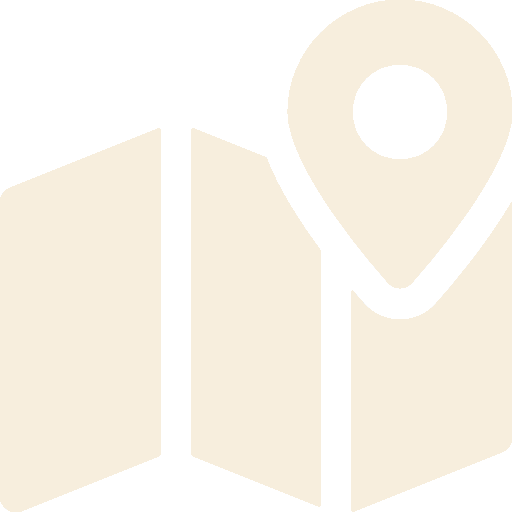
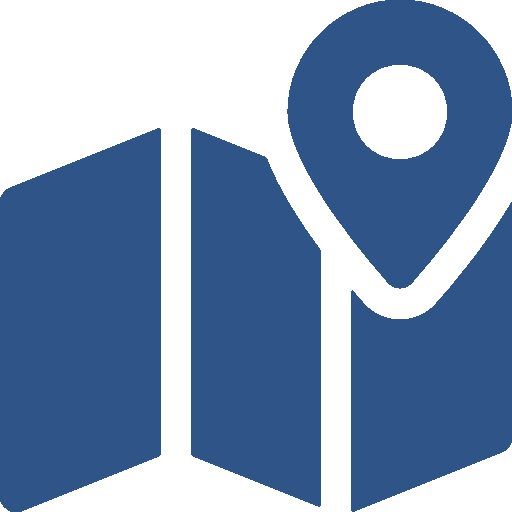
Changing design of mainwindow and adding customer

diff --git a/MapDBTrack/AddingCustomer.xaml b/MapDBTrack/AddingCustomer.xaml
@@ -5,31 +5,35 @@
         xmlns:mc="http://schemas.openxmlformats.org/markup-compatibility/2006"
         xmlns:local="clr-namespace:MapDBTrack"
         mc:Ignorable="d"
-        Title="AddingCustomer" Height="750" Width="700">
+        Title="AddingCustomer" Height="880" Width="700">
     <Window.Resources>
         <Style x:Key="TextBlocksStyle" TargetType="TextBlock">
-            <Setter Property="FontSize" Value="25"/>
+            <Setter Property="FontSize" Value="15"/>
             <Setter Property="FontWeight" Value="DemiBold"/>
             <Setter Property="VerticalAlignment" Value="Center"/>
             <Setter Property="HorizontalAlignment" Value="Center"/>
-            <Setter Property="Foreground" Value="#F7EEDD"/>
+            <Setter Property="Foreground" Value="#FF2F5588"/>
         </Style>
         <Style x:Key="Buttons" TargetType="Button">
-            <Setter Property="Background" Value="#FF5B5B5B"/>
+            <Setter Property="Background" Value="#FF2F5588"/>
+            <Setter Property="BorderThickness" Value="2"/>
+            <Setter Property="FontSize" Value="20"/>
             <Setter Property="FontWeight" Value="DemiBold"/>
-            <Setter Property="FontSize" Value="30"/>
-            <Setter Property="Cursor" Value="Hand"/>
-            <Setter Property="Foreground" Value="#F7EEDD"/>
+            <Setter Property="Foreground" Value="White"/>
+            <Setter Property="BorderBrush" Value="Gray"/>
             <Setter Property="Template">
                 <Setter.Value>
                     <ControlTemplate TargetType="Button">
+
                         <Border Background="{TemplateBinding Background}"
-                        CornerRadius="20">
+                        BorderBrush="{TemplateBinding BorderBrush}"
+                        BorderThickness="{TemplateBinding BorderThickness}"
+                        CornerRadius="15">
                             <ContentPresenter HorizontalAlignment="Center" VerticalAlignment="Center"/>
                         </Border>
                         <ControlTemplate.Triggers>
                             <Trigger Property="IsMouseOver" Value="True">
-                                <Setter Property="Background" Value="#FF888888"/>
+                                <Setter Property="Background" Value="#FF638EC8"/>
                             </Trigger>
                         </ControlTemplate.Triggers>
                     </ControlTemplate>
@@ -84,67 +88,108 @@
         </Style>
     </Window.Resources>
     <Grid>
-        <Grid.RowDefinitions>
-            <RowDefinition Height="*"/>
-            <RowDefinition Height="*"/>
-            <RowDefinition Height="*"/>
-            <RowDefinition Height="*"/>
-            <RowDefinition Height="*"/>
-            <RowDefinition Height="*"/>
-            <RowDefinition Height="*"/>
-            <RowDefinition Height="*"/>
-            <RowDefinition Height="*"/>
-            <RowDefinition Height="*"/>
-            <RowDefinition Height="*"/>
-            <RowDefinition Height="*"/>
-            <RowDefinition Height="80"/>
-        </Grid.RowDefinitions>
-        <Grid.ColumnDefinitions>
-            <ColumnDefinition Width="200"/>
-            <ColumnDefinition Width="*"/>
-        </Grid.ColumnDefinitions>
-
-        <Image Source="/Pictures/MainWindowBack.jpg" Stretch="UniformToFill" Grid.RowSpan="20" Grid.ColumnSpan="2"/>
-        <TextBlock Grid.Row="0" Grid.Column="0" Text="First name" Style="{StaticResource ResourceKey=TextBlocksStyle}"/>
-        <TextBlock Grid.Row="1" Grid.Column="0" Text="Last name" Style="{StaticResource ResourceKey=TextBlocksStyle}"/>
-        <TextBlock Grid.Row="2" Grid.Column="0" Text="Number" Style="{StaticResource ResourceKey=TextBlocksStyle}"/>
-        <TextBlock Grid.Row="3" Grid.Column="0" Text="Email" Style="{StaticResource ResourceKey=TextBlocksStyle}"/>
-        <TextBlock Grid.Row="4" Grid.Column="0" Text="Province" Style="{StaticResource ResourceKey=TextBlocksStyle}"/>
-        <TextBlock Grid.Row="5" Grid.Column="0" Text="City" Style="{StaticResource ResourceKey=TextBlocksStyle}"/>
-        <TextBlock Grid.Row="6" Grid.Column="0" Text="Postal code" Style="{StaticResource ResourceKey=TextBlocksStyle}"/>
-        <TextBlock Grid.Row="7" Grid.Column="0" Text="Street" Style="{StaticResource ResourceKey=TextBlocksStyle}"/>
-        <TextBlock Grid.Row="8" Grid.Column="0" Text="Latitude" Style="{StaticResource ResourceKey=TextBlocksStyle}"/>
-        <TextBlock Grid.Row="9" Grid.Column="0" Text="Longitude" Style="{StaticResource ResourceKey=TextBlocksStyle}"/>
-        <TextBlock Grid.Row="10" Grid.RowSpan="2" Grid.Column="0" Text="Description" Style="{StaticResource ResourceKey=TextBlocksStyle}"/>
-
-        <TextBox x:Name="FirstNameBox" Grid.Row="0" Grid.Column="1" Margin="27,11,29,11" Style="{StaticResource RoundedTextBox}" />
-        <TextBox x:Name="LastNameBox" Grid.Row="1" Grid.Column="1" Margin="27,11,29,11" Style="{StaticResource RoundedTextBox}" />
-        <TextBox x:Name="ContactBox" Grid.Row="2" Grid.Column="1" Margin="27,11,29,11" Style="{StaticResource RoundedTextBox}"/>
-        <TextBox x:Name="EmailBox" Grid.Row="3" Grid.Column="1" Margin="27,11,29,11" Style="{StaticResource RoundedTextBox}" />
-        <TextBox x:Name="ProvinceBox" Grid.Row="4" Grid.Column="1" Margin="27,11,29,11" Style="{StaticResource RoundedTextBox}" />
-        <TextBox x:Name="CityBox" Grid.Row="5" Grid.Column="1" Margin="27,11,29,11" Style="{StaticResource RoundedTextBox}"/>
-        <TextBox x:Name="PostalCodeBox" Grid.Row="6" Grid.Column="1" Margin="27,11,29,11" Style="{StaticResource RoundedTextBox}"/>
-        <TextBox x:Name="StreetBox" Grid.Row="7" Grid.Column="1" Margin="27,11,29,11" Style="{StaticResource RoundedTextBox}" />
-        <TextBox x:Name="LatitudeBox" Grid.Row="8" Grid.Column="1" Margin="27,11,29,11" IsEnabled="False" Style="{StaticResource RoundedTextBox}"/>
-        <TextBox x:Name="LongitudeBox" Grid.Row="9" Grid.Column="1" Margin="27,11,29,11" IsEnabled="False" Style="{StaticResource RoundedTextBox}"/>
-        <TextBox x:Name="DescriptionBox" Grid.Row="10" Grid.Column="1" Margin="27,11,29,11" Grid.RowSpan="2" Style="{StaticResource RoundedTextBoxDesc}" />
-
-        <Border Grid.Row="12" Grid.Column="0" Grid.ColumnSpan="2">
+        <Border Background="#FFD1E1EC">
             <Grid>
-                <Grid.ColumnDefinitions>
-                    <ColumnDefinition Width="*"/>
-                    <ColumnDefinition Width="*"/>
-                </Grid.ColumnDefinitions>
-                <Border Grid.Row="0" Grid.Column="0" CornerRadius="20" Margin="10" Background="#FF5B5B5B" BorderThickness="2" BorderBrush="Black">
-                    <Button Content="Accept" Style="{StaticResource Buttons}" Click="AcceptClick"/>
-                </Border>
-                <Border Grid.Row="0" Grid.Column="1" CornerRadius="20" Margin="10" Background="#FF5B5B5B" BorderThickness="2" BorderBrush="Black">
-                    <Button Content="Delete" Style="{StaticResource Buttons}" Click="DeleteClick"/>
+                <Grid.RowDefinitions>
+                    <RowDefinition Height="*"/>
+                    <RowDefinition Height="*"/>
+                    <RowDefinition Height="*"/>
+                    <RowDefinition Height="3"/>
+                    <RowDefinition Height="*"/>
+                    <RowDefinition Height="*"/>
+                    <RowDefinition Height="*"/>
+                    <RowDefinition Height="*"/>
+                    <RowDefinition Height="3"/>
+                    <RowDefinition Height="*"/>
+                    <RowDefinition Height="*"/>
+                    <RowDefinition Height="*"/>
+                    <RowDefinition Height="*"/>
+                </Grid.RowDefinitions>
+                <TextBlock Grid.Row="0" Grid.Column="0" Grid.ColumnSpan="2" Text="Contact information" FontSize="50" Foreground="#FF2F5588" FontWeight="DemiBold" VerticalAlignment="Center" HorizontalAlignment="Center"/>
+
+
+                <Border Grid.Row="1" Grid.RowSpan="2">
+                    <Grid>
+                        <Grid.ColumnDefinitions>
+                            <ColumnDefinition Width="*"/>
+                            <ColumnDefinition Width="*"/>
+                        </Grid.ColumnDefinitions>
+                        <Grid.RowDefinitions>
+                            <RowDefinition Height="*"/>
+                            <RowDefinition Height="*"/>
+                        </Grid.RowDefinitions>
+                        <TextBox x:Name="FirstNameBox" Grid.Row="0" Grid.Column="0" Margin="10,26,10,5"  Style="{StaticResource RoundedTextBox}" />
+                        <TextBox x:Name="LastNameBox" Grid.Row="0" Grid.Column="1"  Style="{StaticResource RoundedTextBox}" Margin="10,26,10,5" />
+
+                        <TextBlock Grid.Row="0" Grid.Column="0" Text="First name" Style="{StaticResource ResourceKey=TextBlocksStyle}" HorizontalAlignment="Left" Margin="12,5,0,0" VerticalAlignment="Top" Height="16"/>
+                        <TextBlock Grid.Row="0" Grid.Column="1" Text="Last name" Style="{StaticResource ResourceKey=TextBlocksStyle}" HorizontalAlignment="Left" Margin="12,5,0,0" VerticalAlignment="Top" Height="18"/>
+
+                        <TextBox x:Name="ContactBox" Grid.Row="1" Grid.Column="1" Margin="10,26,10,5" Style="{StaticResource RoundedTextBox}"/>
+                        <TextBox x:Name="EmailBox" Grid.Row="1" Grid.Column="0" Margin="10,26,10,5" Style="{StaticResource RoundedTextBox}" />
+
+                        <TextBlock Grid.Row="1" Grid.Column="1" Text="Number" Style="{StaticResource ResourceKey=TextBlocksStyle}" HorizontalAlignment="Left"  VerticalAlignment="Top" Margin="12,5,0,0"/>
+                        <TextBlock Grid.Row="1" Text="Email" Style="{StaticResource ResourceKey=TextBlocksStyle}" HorizontalAlignment="Left"  VerticalAlignment="Top" Margin="12,5,0,0"/>
+                    </Grid>
                 </Border>
 
+                <Border Grid.Row="4" Background="#FF2F5588" Margin="0,4,0,71"/>
+
+                <TextBlock Grid.Row="4" Grid.Column="0" Grid.ColumnSpan="2" Text="Residence details" FontSize="50" Foreground="#FF2F5588" FontWeight="DemiBold" VerticalAlignment="Center" HorizontalAlignment="Center"/>
+
+                <Border Grid.Row="5" Grid.RowSpan="3">
+                    <Grid>
+                        <Grid.ColumnDefinitions>
+                            <ColumnDefinition Width="*"/>
+                            <ColumnDefinition Width="*"/>
+                        </Grid.ColumnDefinitions>
+                        <Grid.RowDefinitions>
+                            <RowDefinition Height="*"/>
+                            <RowDefinition Height="*"/>
+                            <RowDefinition Height="*"/>
+                        </Grid.RowDefinitions>
+                        <TextBlock Grid.Row="0" Text="Province" Style="{StaticResource ResourceKey=TextBlocksStyle}" HorizontalAlignment="Left" Margin="12,5,0,0" VerticalAlignment="Top"/>
+                        <TextBlock Grid.Row="0" Grid.Column="1" Text="City" Style="{StaticResource ResourceKey=TextBlocksStyle}" HorizontalAlignment="Left" Margin="12,5,0,0" VerticalAlignment="Top"/>
+
+                        <TextBox x:Name="ProvinceBox" Grid.Row="0" Grid.Column="0" Margin="10,26,10,5" Style="{StaticResource RoundedTextBox}" />
+                        <TextBox x:Name="CityBox" Grid.Row="0" Grid.Column="1" Margin="10,26,10,5" Style="{StaticResource RoundedTextBox}"/>
+
+                        <TextBox x:Name="PostalCodeBox" Grid.Row="1" Grid.Column="0" Margin="10,26,10,5" Style="{StaticResource RoundedTextBox}"/>
+                        <TextBox x:Name="StreetBox" Grid.Row="1" Grid.Column="1" Margin="10,26,10,5" Style="{StaticResource RoundedTextBox}" />
+
+                        <TextBlock Grid.Row="1" Grid.Column="0" Text="Postal code" Style="{StaticResource ResourceKey=TextBlocksStyle}" HorizontalAlignment="Left" Margin="18,2,0,0" VerticalAlignment="Top"/>
+                        <TextBlock Grid.Row="1" Grid.Column="1" Text="Street" Style="{StaticResource ResourceKey=TextBlocksStyle}" HorizontalAlignment="Left" Margin="12,5,0,0" VerticalAlignment="Top"/>
+
+                        <TextBlock Grid.Row="2" Grid.Column="0" Text="Latitude" Style="{StaticResource ResourceKey=TextBlocksStyle}" HorizontalAlignment="Left" Margin="12,5,0,0" VerticalAlignment="Top"/>
+                        <TextBlock Grid.Row="2" Grid.Column="1" Text="Longitude" Style="{StaticResource ResourceKey=TextBlocksStyle}" HorizontalAlignment="Left" Margin="12,5,0,0" VerticalAlignment="Top"/>
+
+                        <TextBox x:Name="LatitudeBox" Grid.Row="2" Grid.Column="0" Margin="10,26,10,5" IsEnabled="False" Style="{StaticResource RoundedTextBox}"/>
+                        <TextBox x:Name="LongitudeBox" Grid.Row="2" Grid.Column="1" Margin="10,26,10,5" IsEnabled="False" Style="{StaticResource RoundedTextBox}"/>
+                    </Grid>
+                </Border>
+
+                <Border Grid.Row="9" Background="#FF2F5588" Margin="0,2,0,73"/>
+
+                <TextBlock Grid.Row="9" Grid.Column="0" Grid.ColumnSpan="2" Text="Description" FontSize="50" Foreground="#FF2F5588" FontWeight="DemiBold" VerticalAlignment="Center" HorizontalAlignment="Center"/>
+
+                <TextBox x:Name="DescriptionBox" Grid.Row="10" Grid.RowSpan="2" Style="{StaticResource RoundedTextBoxDesc}" Margin="10,12,10,17"/>
+
+
+                <Border Grid.Row="12" Grid.Column="0" Grid.ColumnSpan="2">
+                    <Grid>
+                        <Grid.ColumnDefinitions>
+                            <ColumnDefinition Width="*"/>
+                            <ColumnDefinition Width="*"/>
+                        </Grid.ColumnDefinitions>
+                        <Border Grid.Row="0" Grid.Column="0" CornerRadius="20" Margin="10">
+                            <Button Content="Accept" Style="{StaticResource Buttons}" Click="AcceptClick"/>
+                        </Border>
+                        <Border Grid.Row="0" Grid.Column="1" CornerRadius="20" Margin="10">
+                            <Button Content="Delete" Style="{StaticResource Buttons}" Click="DeleteClick"/>
+                        </Border>
+
+                    </Grid>
+                </Border>
             </Grid>
         </Border>
-
-
     </Grid>
 </Window>

diff --git a/MapDBTrack/MainWindow.xaml b/MapDBTrack/MainWindow.xaml
@@ -11,19 +11,24 @@
 
     <Window.Resources>
         <Style x:Key="Buttons" TargetType="Button">
-            <Setter Property="Background" Value="#FF5B5B5B"/>
+            <Setter Property="Background" Value="#FF2F5588"/>
             <Setter Property="FontWeight" Value="DemiBold"/>
+            <Setter Property="BorderThickness" Value="2"/>
             <Setter Property="Cursor" Value="Hand"/>
+            <Setter Property="BorderBrush" Value="Gray"/>
             <Setter Property="Template">
                 <Setter.Value>
                     <ControlTemplate TargetType="Button">
+
                         <Border Background="{TemplateBinding Background}"
-                        CornerRadius="20">
+                        BorderBrush="{TemplateBinding BorderBrush}"
+                        BorderThickness="{TemplateBinding BorderThickness}"
+                        CornerRadius="15">
                             <ContentPresenter HorizontalAlignment="Center" VerticalAlignment="Center"/>
                         </Border>
                         <ControlTemplate.Triggers>
                             <Trigger Property="IsMouseOver" Value="True">
-                                <Setter Property="Background" Value="#FF888888"/>
+                                <Setter Property="Background" Value="#FF638EC8"/>
                             </Trigger>
                         </ControlTemplate.Triggers>
                     </ControlTemplate>
@@ -72,8 +77,7 @@
             <ColumnDefinition Width="2"/>
             <ColumnDefinition Width="898"/>
         </Grid.ColumnDefinitions>
-        <Image Source="/Pictures/MainWindowBack.jpg" Stretch="None"/>
-        <Border x:Name="Menu" Grid.Column="0">
+        <Border x:Name="Menu" Grid.Column="0" Background="#FFD1E1EC">
             <Grid>
                 <Grid.ColumnDefinitions>
                     <ColumnDefinition Width="100"/>
@@ -96,7 +100,7 @@
 
                 <Border Grid.Row="0" Grid.Column="0" Grid.ColumnSpan="2">
                     <Grid>
-                        <TextBlock Text="MapDBTrack" FontSize="40" FontWeight="Bold" Foreground="#F7EEDD" HorizontalAlignment="Center" VerticalAlignment="Top" Margin="0,3,0,0"/>
+                        <TextBlock Text="MapDBTrack" FontSize="40" FontWeight="Bold" Foreground="#FF2F5588" HorizontalAlignment="Center" VerticalAlignment="Top" Margin="0,3,0,0"/>
                         <Button Opacity="0" Click="Information" Width="235" Cursor="Hand" Margin="34,15,31,60"/>
                     </Grid>
                 </Border>
@@ -104,7 +108,7 @@
 
 
 
-                <Border Grid.Row="2" Grid.Column="0" Grid.ColumnSpan="2" CornerRadius="20" Margin="20" Background="#FF5B5B5B" BorderThickness="2" BorderBrush="Black">
+                <Border Grid.Row="2" Grid.Column="0" Grid.ColumnSpan="2" CornerRadius="20" Margin="20">
                     <Grid>
                         <Grid.ColumnDefinitions>
                             <ColumnDefinition Width="80"/>
@@ -112,11 +116,11 @@
                         </Grid.ColumnDefinitions>
                         <Button Grid.Column="0" Grid.ColumnSpan="2" Style="{StaticResource Buttons}" Click="MapClick"/>
                         <TextBlock Text="Map" Grid.Column="1" Style="{StaticResource TexBlocks}" IsHitTestVisible="False"/>
-                        <Image Source="/Pictures/Pin.png" Grid.Column="0" IsHitTestVisible="False" HorizontalAlignment="Stretch" VerticalAlignment="Stretch" Margin="0,5,0,5"/>
+                        <Image Source="/Pictures/Pin.png" Grid.Column="0" IsHitTestVisible="False" Margin="3,6,1,6"/>
                     </Grid>
                 </Border>
 
-                <Border Grid.Row="3" Grid.Column="0" Grid.ColumnSpan="2" CornerRadius="20" Margin="20" Background="#FF5B5B5B" BorderThickness="2" BorderBrush="Black">
+                <Border Grid.Row="3" Grid.Column="0" Grid.ColumnSpan="2" CornerRadius="20" Margin="20">
                     <Grid>
                         <Grid.ColumnDefinitions>
                             <ColumnDefinition Width="80"/>
@@ -124,11 +128,11 @@
                         </Grid.ColumnDefinitions>
                         <Button Grid.Column="0" Grid.ColumnSpan="2" Style="{StaticResource Buttons}" Click="CustomersClick"/>
                         <TextBlock Text="Customers" Grid.Column="1" Style="{StaticResource TexBlocks}" IsHitTestVisible="False"/>
-                        <Image Source="/Pictures/Customer.png" Grid.Column="0" IsHitTestVisible="False"  HorizontalAlignment="Stretch" VerticalAlignment="Stretch" Margin="0,5,0,5"/>
+                        <Image Source="/Pictures/Customer.png" Grid.Column="0" IsHitTestVisible="False" Margin="3,6,1,6"/>
                     </Grid>
                 </Border>
 
-                <Border Grid.Row="4" Grid.Column="0" Grid.ColumnSpan="2" CornerRadius="20" Margin="20" Background="#FF5B5B5B" BorderThickness="2" BorderBrush="Black">
+                <Border Grid.Row="4" Grid.Column="0" Grid.ColumnSpan="2" CornerRadius="20" Margin="20" >
                     <Grid>
                         <Grid.ColumnDefinitions>
                             <ColumnDefinition Width="80"/>
@@ -136,11 +140,11 @@
                         </Grid.ColumnDefinitions>
                         <Button Grid.Column="0" Grid.ColumnSpan="2" Style="{StaticResource Buttons}" Click="HistoryClick"/>
                         <TextBlock Text="History" Grid.Column="1" Style="{StaticResource TexBlocks}" IsHitTestVisible="False"/>
-                        <Image Source="/Pictures/History.png" Grid.Column="0" IsHitTestVisible="False"  HorizontalAlignment="Stretch" VerticalAlignment="Stretch" Margin="0,5,0,5"/>
+                        <Image Source="/Pictures/History.png" Grid.Column="0" IsHitTestVisible="False" Margin="0,5,0,5"/>
                     </Grid>
                 </Border>
 
-                <Border Grid.Row="5" Grid.Column="0" Grid.ColumnSpan="2" CornerRadius="20" Margin="20" Background="#FF5B5B5B" BorderThickness="2" BorderBrush="Black">
+                <Border Grid.Row="5" Grid.Column="0" Grid.ColumnSpan="2" CornerRadius="20" Margin="20">
                     <Grid>
                         <Grid.ColumnDefinitions>
                             <ColumnDefinition Width="80"/>
@@ -148,11 +152,11 @@
                         </Grid.ColumnDefinitions>
                         <Button Grid.Column="0" Grid.ColumnSpan="2" Style="{StaticResource Buttons}" Click="LogoutClick"/>
                         <TextBlock Text="Log out" Grid.Column="1" Style="{StaticResource TexBlocks}" IsHitTestVisible="False"/>
-                        <Image Source="/Pictures/Logout.png" Grid.Column="0" IsHitTestVisible="False" Margin="6,9,6,9"/>
+                        <Image Source="/Pictures/Logout.png" Grid.Column="0" IsHitTestVisible="False" Margin="8,9,4,9"/>
                     </Grid>
                 </Border>
 
-                <Border Grid.Row="6" Grid.Column="0" Grid.ColumnSpan="2" CornerRadius="20" Margin="20" Background="#FF5B5B5B" BorderThickness="2" BorderBrush="Black">
+                <Border Grid.Row="6" Grid.Column="0" Grid.ColumnSpan="2" CornerRadius="20" Margin="20">
                     <Grid>
                         <Grid.ColumnDefinitions>
                             <ColumnDefinition Width="80"/>
@@ -160,13 +164,13 @@
                         </Grid.ColumnDefinitions>
                         <Button Grid.Column="0" Grid.ColumnSpan="2" Style="{StaticResource Buttons}" Click="ExitClick"/>
                         <TextBlock Text="Exit" Grid.Column="1" Style="{StaticResource TexBlocks}" IsHitTestVisible="False"/>
-                        <Image Source="/Pictures/Exit.png" Grid.Column="0" IsHitTestVisible="False"  HorizontalAlignment="Stretch" VerticalAlignment="Stretch" Margin="0,5,0,5"/>
+                        <Image Source="/Pictures/Exit.png" Grid.Column="0" IsHitTestVisible="False" Margin="1,-2,2,1"/>
                     </Grid>
                 </Border>
 
             </Grid>
         </Border>
-        <TextBlock x:Name="LoginName" Text="" Foreground="#F7EEDD" FontWeight="DemiBold" VerticalAlignment="Top" TextAlignment="Left" FontSize="22" Height="41" Margin="21,200,0,0"/>
+        <TextBlock x:Name="LoginName" Text="" Foreground="#FF2F5588" FontWeight="DemiBold" VerticalAlignment="Top" TextAlignment="Left" FontSize="22" Height="41" Margin="21,200,0,0"/>
         <Image Source="/Pictures/Map.png" Grid.Row="0" Margin="36,66,36,609" IsHitTestVisible="False"/>
 
     </Grid>

diff --git a/MapDBTrack/Login.xaml b/MapDBTrack/Login.xaml
@@ -83,7 +83,7 @@
                 <TextBox x:Name="PasswordBox" Grid.Row="3" Grid.Column="0" Grid.ColumnSpan="2" TextChanged="PasswordChanged" Style="{StaticResource RoundedTextBox}"/>
                 <TextBlock Text="User name" Grid.Row="2" Width="60" Height="20" Margin="39,17,99,75" Foreground="#FF2F5588" FontWeight="DemiBold"/>
                 <TextBlock Text="Password" Grid.Row="3" Width="60" Height="20" Margin="39,17,99,75" Foreground="#FF2F5588" FontWeight="DemiBold"/>
-                <Button x:Name="Reset" Content="" Click="ResetPassword" Grid.Column="0" Grid.Row="3" Height="20" Margin="39,85,27,7" HorizontalContentAlignment="Left" FontSize="10" Foreground="Red" IsEnabled="False" FontWeight="DemiBold" Cursor="Hand">
+                <Button x:Name="Reset" Content="" Click="ResetPassword" Grid.Column="0" Grid.Row="3" Height="20" Margin="39,85,27,7" HorizontalContentAlignment="Left" FontSize="10" IsEnabled="False" FontWeight="DemiBold" Cursor="Hand">
                     <Button.Template>
                         <ControlTemplate TargetType="Button">
                             <Border Background="#FFD1E1EC" Padding="{TemplateBinding Padding}">
@@ -97,8 +97,8 @@
                         </ControlTemplate>
                     </Button.Template>
                 </Button>
-                <TextBlock x:Name="LoginFailed" Text="" Grid.Column="0" Grid.ColumnSpan="2" Grid.Row="2" Width="200" Height="20" Margin="39,76,157,16" FontSize="10" FontWeight="DemiBold" Foreground="Red"/>
-                <TextBlock x:Name="PasswordFailed" Text="" Grid.Column="0" Grid.ColumnSpan="2" Grid.Row="3" Width="200" Height="20" Margin="39,76,157,16" FontSize="10" FontWeight="DemiBold" Foreground="Red"/>
+                <TextBlock x:Name="LoginFailed" Text="" Grid.Column="0" Grid.ColumnSpan="2" Grid.Row="2" Width="200" Height="20" Margin="39,76,157,16" FontSize="10" FontWeight="DemiBold" />
+                <TextBlock x:Name="PasswordFailed" Text="" Grid.Column="0" Grid.ColumnSpan="2" Grid.Row="3" Width="200" Height="20" Margin="39,76,157,16" FontSize="10" FontWeight="DemiBold" />
             </Grid>
         </Border>
 

diff --git a/MapDBTrack/HelpingClass.cs b/MapDBTrack/HelpingClass.cs
@@ -15,6 +15,7 @@ namespace MapDBTrack
 {
     public static class HelpingClass
     {
+
         public static bool NetworkCheck(Window window)
         {
             while(true)
